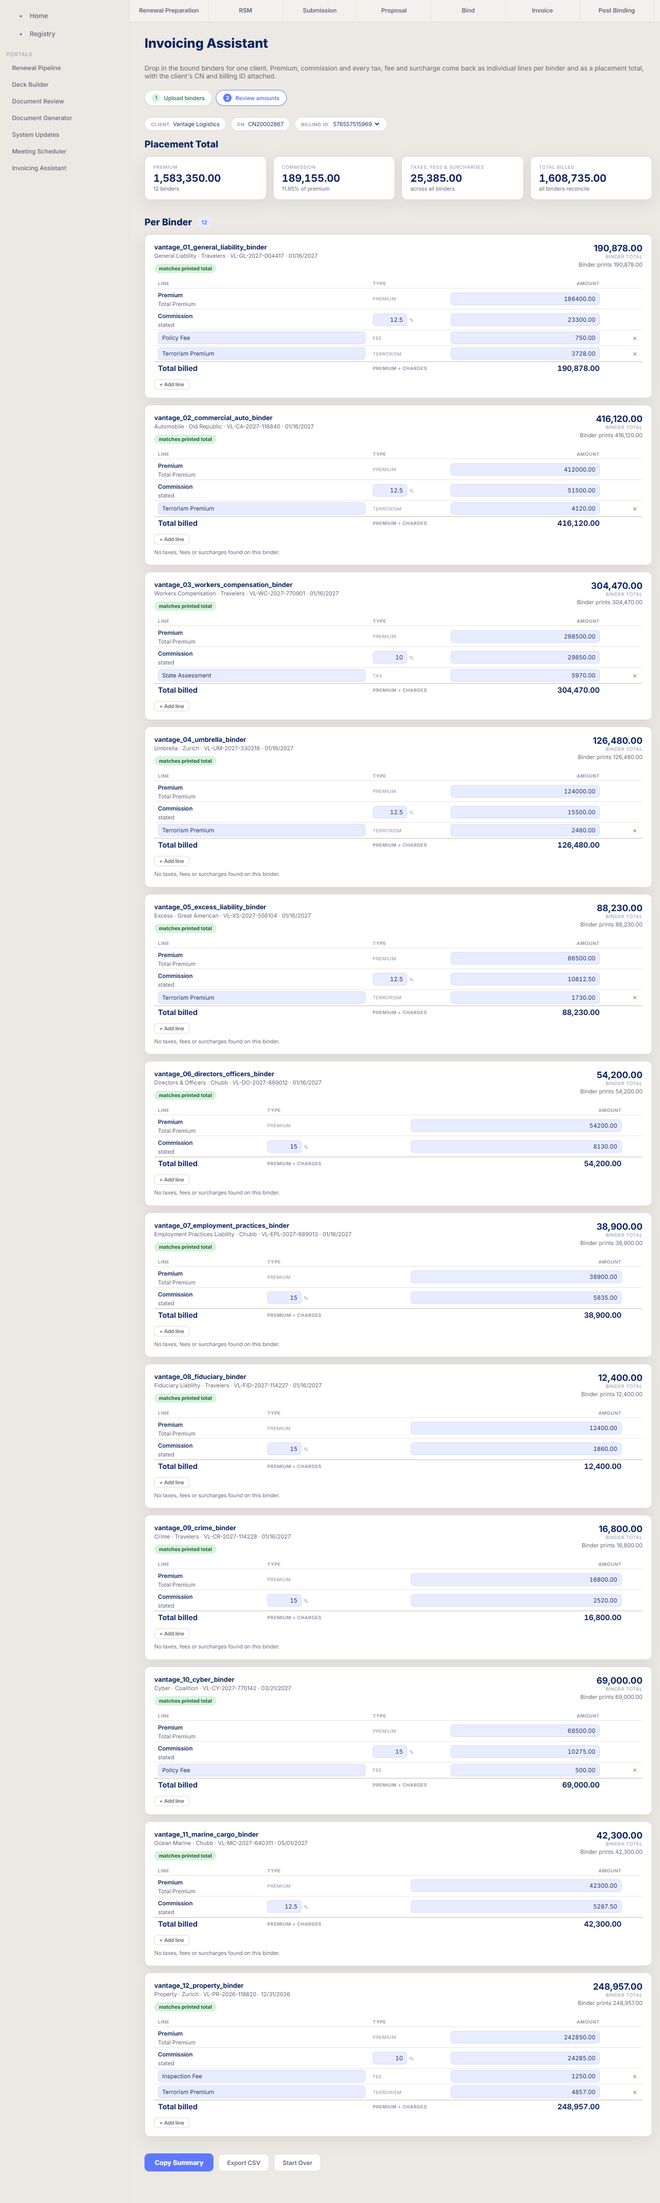
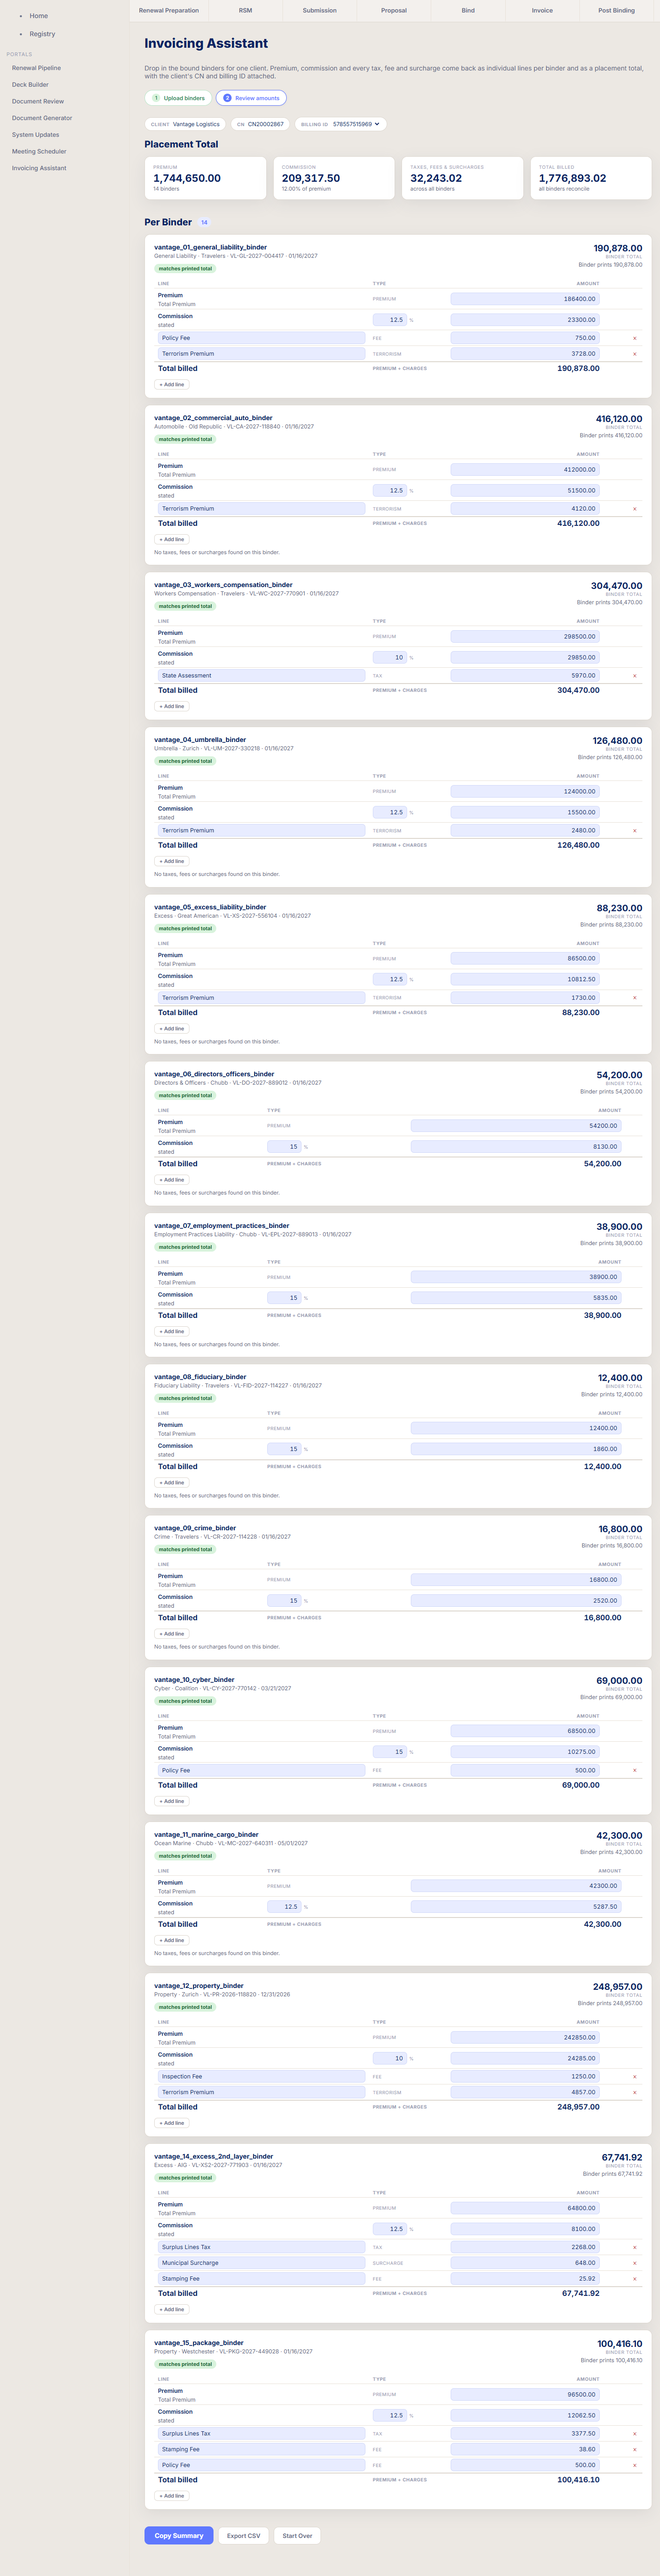
Add surplus lines placements and money-parser edge cases to the samples
The tower was entirely admitted paper, which meant no surplus lines tax and no
stamping fee anywhere - so the parser's E&S handling, its net-of-commission
reconciliation and its gap-adoption logic were never exercised by the samples.

A real tower is not all admitted either. High excess layers and tough-occupancy
property routinely sit on E&S paper, so each client now also carries
non-admitted placements: Lexington (AIG) and Westchester (Chubb) for Vantage,
Evanston (Markel) and Scottsdale (Nationwide) for Kestrel. Those binders carry
a surplus lines tax, a stamping fee and a municipal surcharge, with the licensee
and home state stated as they would be on real E&S paper.

Three further documents cover the remaining branches:

  - a blended package with per-coverage premium components and carrier-stated
    tax and fee subtotals, which must be read without double counting
  - an equipment floater printing only a net-of-commission figure, reconciled
    against premium less commission rather than a gross total
  - a property binder carrying a charge the label vocabulary has never seen,
    recoverable only from the hole it leaves against the printed total

Charge kinds exercised go from three to six (tax, fee, surcharge, terrorism,
other, plus premium components), and both reconciliation modes now appear.
Adds a second screenshot showing the surplus lines and edge-case binders.

Changed region(s): [[0.2161, 0.0, 0.9881, 0.9968], [0.0, 0.0, 0.0926, 0.0935]]

diff --git a/scripts/gen_sample_documents.py b/scripts/gen_sample_documents.py
@@ -6,8 +6,8 @@ real documents. Every figure is fabricated.
 
 Carriers
 --------
-All paper here is ADMITTED, and the carriers are matched to the lines they
-actually write in the US admitted market:
+Most of the tower sits on ADMITTED paper, with the carriers matched to the lines
+they actually write in the US admitted market:
 
   GL / Auto / WC      Travelers, Hartford - the large admitted casualty writers.
                       Fleet auto for a trucking risk goes to Old Republic, which
@@ -23,10 +23,21 @@ actually write in the US admitted market:
   Property            Zurich for a distribution risk; Affiliated FM for a
                       manufacturing/technology risk, which is its core appetite.
 
-Because the paper is admitted, none of these carry surplus lines tax or a
-stamping fee - those belong to non-admitted E&S placements. Admitted charges are
-modelled instead: separately stated terrorism (TRIA) premium, state workers
-compensation assessments, and policy fees.
+Admitted paper carries no surplus lines tax or stamping fee, so those binders
+model the charges admitted business actually shows: separately stated terrorism
+(TRIA) premium, state workers compensation assessments, and policy fees.
+
+A real tower is not all admitted, though. High excess layers and tough-occupancy
+property routinely sit on E&S paper, so each client also carries non-admitted
+placements through Lexington (AIG), Westchester (Chubb), Evanston (Markel) and
+Scottsdale (Nationwide). Those are the binders that carry a surplus lines tax, a
+stamping fee and a municipal surcharge.
+
+Between them the documents exercise every branch of the money parser: each
+charge kind (tax, fee, surcharge, terrorism), premium components and
+carrier-stated subtotals that must not be double counted, a binder printing only
+a net-of-commission figure, and a charge whose label the vocabulary has never
+seen, recoverable only from the hole it leaves against the printed total.
 
 Label vocabulary
 ----------------
@@ -146,6 +157,72 @@ def invoice(fn, *, insured, carrier, policy, period, coverage,
             "premium": premium, "total": total}
 
 
+def surplus_binder(fn, *, insured, carrier, policy, period, coverage, limits,
+                   premium, commission_pct, charges, licensee, home_state,
+                   components=(), subtotals=(), underlying=None):
+    """A non-admitted (surplus lines) placement.
+
+    E&S paper is what actually carries a surplus lines tax and a stamping fee,
+    so these are the documents that exercise that side of the money parser.
+    """
+    d = Doc(OUT / fn, "BINDER OF INSURANCE")
+    d.row("Named Insured", insured)
+    d.row("Insurance Carrier", carrier)
+    d.row("Policy Number", policy)
+    d.row("Policy Period", period)
+    d.row("Line of Business", coverage)
+    d.row("Limit of Liability", limits)
+    d.row("Paper", "Non-Admitted (Surplus Lines)")
+    d.row("Surplus Lines Licensee", licensee)
+    d.row("Home State", home_state)
+
+    d.heading("PREMIUM SUMMARY")
+    for label, amt in components:
+        d.row(label, _money(amt))
+    d.row("Total Premium", _money(premium))
+    d.row("Commission", f"{commission_pct:.1f}% ({_money(round(premium * commission_pct / 100, 2))})")
+    total = premium
+    for label, amt in charges:
+        d.row(label, _money(amt))
+        total += amt
+    for label, amt in subtotals:
+        d.row(label, _money(amt))
+    d.row("Total Amount Due", _money(round(total, 2)), bold=True)
+    if underlying:
+        d.heading("UNDERLYING SCHEDULE")
+        for label, value in underlying:
+            d.row(label, value)
+    d.save()
+    return {"file": fn, "carrier": carrier, "coverage": coverage,
+            "premium": premium, "total": round(total, 2)}
+
+
+def net_due_binder(fn, *, insured, carrier, policy, period, coverage, limits,
+                   premium, commission_pct):
+    """A binder that prints only the net-of-commission figure.
+
+    Some carriers state what the broker remits rather than what the client is
+    billed. The parser has to reconcile against premium less commission instead
+    of against a gross total; this is the document that proves it.
+    """
+    d = Doc(OUT / fn, "BINDER OF INSURANCE")
+    d.row("Named Insured", insured)
+    d.row("Insurance Carrier", carrier)
+    d.row("Policy Number", policy)
+    d.row("Policy Period", period)
+    d.row("Line of Business", coverage)
+    d.row("Limit of Liability", limits)
+    d.row("Paper", "Admitted")
+    d.heading("PREMIUM SUMMARY")
+    commission = round(premium * commission_pct / 100, 2)
+    d.row("Total Premium", _money(premium))
+    d.row("Commission", f"{commission_pct:.1f}% ({_money(commission)})")
+    d.row("Net Premium Due", _money(round(premium - commission, 2)), bold=True)
+    d.save()
+    return {"file": fn, "carrier": carrier, "coverage": coverage,
+            "premium": premium, "total": round(premium - commission, 2)}
+
+
 TRAVELERS = "Travelers Property Casualty Company of America"
 TRAV_SURETY = "Travelers Casualty and Surety Company of America"
 OLD_REPUBLIC = "Old Republic Insurance Company"
@@ -160,6 +237,14 @@ AIG = "National Union Fire Insurance Company of Pittsburgh, Pa."
 BEAZLEY = "Beazley Insurance Company, Inc."
 STARR = "Starr Indemnity & Liability Company"
 AFM = "Affiliated FM Insurance Company"
+
+# Non-admitted (E&S) paper. Real towers mix admitted and surplus lines: high
+# excess layers and tough-occupancy property routinely sit on E&S paper, which
+# is what carries surplus lines tax and a stamping fee.
+LEXINGTON = "Lexington Insurance Company"                      # AIG E&S
+WESTCHESTER = "Westchester Surplus Lines Insurance Company"    # Chubb E&S
+EVANSTON = "Evanston Insurance Company"                        # Markel E&S
+SCOTTSDALE = "Scottsdale Insurance Company"                    # Nationwide E&S
 
 
 def vantage():
@@ -242,6 +327,29 @@ def vantage():
         premium=242_850.00, commission_pct=10.0,
         charges=[("Terrorism Premium", 4_857.00), ("Inspection Fee", 1_250.00)]))
 
+    # 2nd excess layer on E&S paper: surplus lines tax, stamping fee, surcharge.
+    out.append(surplus_binder("vantage_14_excess_2nd_layer_binder.pdf", insured=V, carrier=LEXINGTON,
+        policy="VL-XS2-2027-771903", period=CAS, coverage="Excess Liability",
+        limits="$25,000,000 excess of $25,000,000",
+        premium=64_800.00, commission_pct=12.5,
+        licensee="Ashford Surplus Brokers LLC", home_state="Illinois",
+        charges=[("Surplus Lines Tax", 2_268.00), ("Stamping Fee", 25.92),
+                 ("Municipal Surcharge", 648.00)],
+        underlying=[("Underlying Excess Carrier", GREAT_AMERICAN),
+                    ("Underlying Limit", "$25,000,000 total"),
+                    ("Underlying Policy", "VL-XS-2027-556104")]))
+
+    # Blended package: per-coverage premium components plus carrier-stated
+    # subtotals, which the parser must read without double counting.
+    out.append(surplus_binder("vantage_15_package_binder.pdf", insured=V, carrier=WESTCHESTER,
+        policy="VL-PKG-2027-449028", period=CAS, coverage="Commercial Package",
+        limits="Per schedule on file", premium=96_500.00, commission_pct=12.5,
+        licensee="Ashford Surplus Brokers LLC", home_state="Illinois",
+        components=[("Property Premium", 58_200.00), ("General Liability Premium", 38_300.00)],
+        charges=[("Surplus Lines Tax", 3_377.50), ("Stamping Fee", 38.60),
+                 ("Policy Fee", 500.00)],
+        subtotals=[("Total Taxes", 3_377.50), ("Total Fees", 538.60)]))
+
     out.append(invoice("vantage_13_casualty_invoice.pdf", insured=V, carrier=TRAVELERS,
         policy="VL-GL-2027-004417", period=CAS, coverage="Commercial General Liability",
         premium=186_400.00, commission_pct=12.5,
@@ -322,6 +430,32 @@ def kestrel():
         limits="$62,000,000 blanket building, contents and equipment",
         premium=168_400.00, commission_pct=10.0,
         charges=[("Terrorism Premium", 3_368.00)]))
+
+    out.append(surplus_binder("kestrel_14_excess_2nd_layer_binder.pdf", insured=K, carrier=EVANSTON,
+        policy="KR-XS2-2026-660412", period=PC, coverage="Excess Liability",
+        limits="$25,000,000 excess of $25,000,000",
+        premium=28_400.00, commission_pct=12.5,
+        licensee="Ashford Surplus Brokers LLC", home_state="Massachusetts",
+        charges=[("Surplus Lines Tax", 1_136.00), ("Stamping Fee", 11.36)],
+        underlying=[("Underlying Excess Carrier", BHSI),
+                    ("Underlying Limit", "$25,000,000 total"),
+                    ("Underlying Policy", "KR-XS-2026-901772")]))
+
+    # Carries a charge the label vocabulary has never seen. It is identifiable
+    # only by the hole it leaves against the printed total, which is the gap
+    # adoption path.
+    out.append(surplus_binder("kestrel_15_property_surplus_binder.pdf", insured=K, carrier=SCOTTSDALE,
+        policy="KR-PRX-2026-118377", period=PC, coverage="Commercial Property",
+        limits="$15,000,000 excess property", premium=51_600.00, commission_pct=12.5,
+        licensee="Ashford Surplus Brokers LLC", home_state="Massachusetts",
+        charges=[("Surplus Lines Tax", 2_064.00), ("Stamping Fee", 20.64),
+                 ("Guaranty Association Recoupment", 387.00)]))
+
+    # Prints only what the broker remits, not what the client is billed.
+    out.append(net_due_binder("kestrel_16_equipment_floater_binder.pdf", insured=K, carrier=HARTFORD,
+        policy="KR-EF-2026-220148", period=PC, coverage="Inland Marine",
+        limits="$4,000,000 scheduled equipment",
+        premium=22_800.00, commission_pct=12.5))
 
     out.append(invoice("kestrel_13_directors_officers_invoice.pdf", insured=K, carrier=AIG,
         policy="KR-DO-2026-556301", period=PC, coverage="Directors and Officers Liability",
